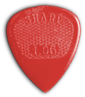
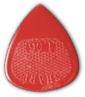
Přehodil jsem trsátko dospod.

diff --git a/css/main.css b/css/main.css
@@ -95,7 +95,7 @@ body.fotky     #menu li.fotky     a:after {
     display: inline-block;
     background: url(/img/pick.png) top left no-repeat;
     background-size: contain;
-    top: -70px;
+    bottom: -65px;
     left: 7px;
     width: 58px;
     height: 65px;
